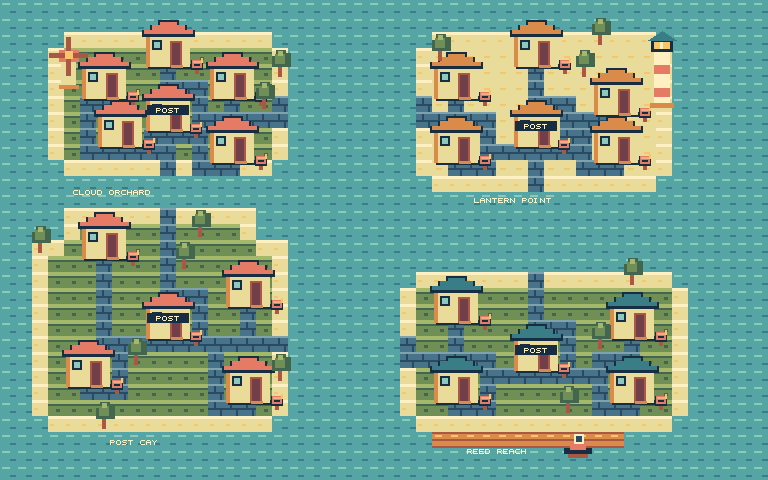
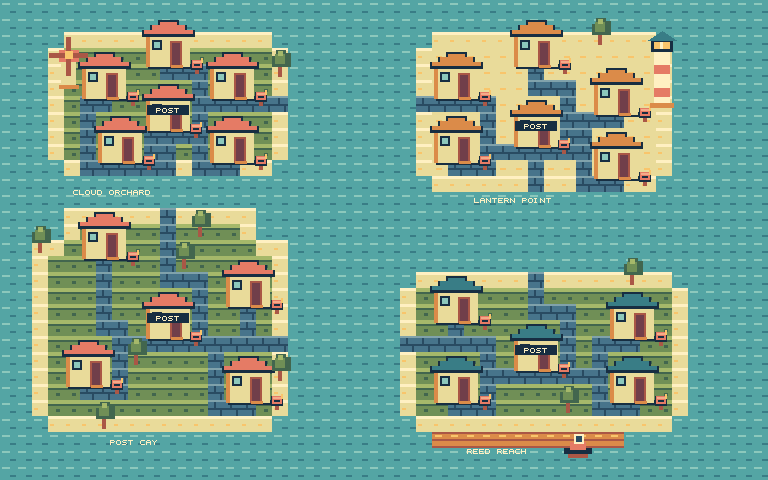
Build TIDEBYTE complete tide delivery adventure with four islands, mobile input and saved progression

diff --git a/tidebyte/world-data.js b/tidebyte/world-data.js
@@ -1,1 +1,1 @@
-globalThis.TIDE_WORLD={"width":48,"height":30,"tile":16,"zones":[[-1,-1,-1,-1,-1,-1,-1,-1,-1,-1,-1,-1,-1,-1,-1,-1,-1,-1,-1,-1,-1,-1,-1,-1,-1,-1,-1,-1,-1,-1,-1,-1,-1,-1,-1,-1,-1,-1,-1,-1,-1,-1,-1,-1,-1,-1,-1,-1],[-1,-1,-1,-1,-1,-1,-1,-1,-1,-1,-1,-1,-1,-1,-1,-1,-1,-1,-1,-1,-1,-1,-1,-1,-1,-1,-1,-1,-1,-1,-1,-1,-1,-1,-1,-1,-1,-1,-1,-1,-1,-1,-1,-1,-1,-1,-1,-1],[-1,-1,-1,-1,3,3,3,3,3,3,3,3,3,3,3,3,3,-1,-1,-1,-1,-1,-1,-1,-1,-1,-1,2,2,2,2,2,2,2,2,2,2,2,2,2,2,-1,-1,-1,-1,-1,-1,-1],[-1,-1,-1,3,3,3,3,3,3,3,3,3,3,3,3,3,3,3,-1,-1,-1,-1,-1,-1,-1,-1,2,2,2,2,2,2,2,2,2,2,2,2,2,2,2,2,-1,-1,-1,-1,-1,-1],[-1,-1,-1,3,3,3,3,3,3,3,3,3,3,3,3,3,3,3,-1,-1,-1,-1,-1,-1,-1,-1,2,2,2,2,2,2,2,2,2,2,2,2,2,2,2,2,-1,-1,-1,-1,-1,-1],[-1,-1,-1,3,3,3,3,3,3,3,3,3,3,3,3,3,3,3,-1,-1,-1,-1,-1,-1,-1,-1,2,2,2,2,2,2,2,2,2,2,2,2,2,2,2,2,-1,-1,-1,-1,-1,-1],[-1,-1,-1,3,3,3,3,3,3,3,3,3,3,3,3,3,3,3,-1,-1,-1,-1,-1,-1,-1,-1,2,2,2,2,2,2,2,2,2,2,2,2,2,2,2,2,-1,-1,-1,-1,-1,-1],[-1,-1,-1,3,3,3,3,3,3,3,3,3,3,3,3,3,3,3,-1,-1,-1,-1,-1,-1,-1,-1,2,2,2,2,2,2,2,2,2,2,2,2,2,2,2,2,-1,-1,-1,-1,-1,-1],[-1,-1,-1,3,3,3,3,3,3,3,3,3,3,3,3,3,3,3,-1,-1,-1,-1,-1,-1,-1,-1,2,2,2,2,2,2,2,2,2,2,2,2,2,2,2,2,-1,-1,-1,-1,-1,-1],[-1,-1,-1,3,3,3,3,3,3,3,3,3,3,3,3,3,3,3,-1,-1,-1,-1,-1,-1,-1,-1,2,2,2,2,2,2,2,2,2,2,2,2,2,2,2,2,-1,-1,-1,-1,-1,-1],[-1,-1,-1,-1,3,3,3,3,3,3,3,3,3,3,3,3,3,-1,-1,-1,-1,-1,-1,-1,-1,-1,2,2,2,2,2,2,2,2,2,2,2,2,2,2,2,2,-1,-1,-1,-1,-1,-1],[-1,-1,-1,-1,-1,-1,-1,-1,-1,-1,-1,-1,-1,-1,-1,-1,-1,-1,-1,-1,-1,-1,-1,-1,-1,-1,-1,2,2,2,2,2,2,2,2,2,2,2,2,2,2,-1,-1,-1,-1,-1,-1,-1],[-1,-1,-1,-1,-1,-1,-1,-1,-1,-1,-1,-1,-1,-1,-1,-1,-1,-1,-1,-1,-1,-1,-1,-1,-1,-1,-1,-1,-1,-1,-1,-1,-1,-1,-1,-1,-1,-1,-1,-1,-1,-1,-1,-1,-1,-1,-1,-1],[-1,-1,-1,-1,0,0,0,0,0,0,0,0,0,0,0,0,-1,-1,-1,-1,-1,-1,-1,-1,-1,-1,-1,-1,-1,-1,-1,-1,-1,-1,-1,-1,-1,-1,-1,-1,-1,-1,-1,-1,-1,-1,-1,-1],[-1,-1,-1,-1,0,0,0,0,0,0,0,0,0,0,0,0,-1,-1,-1,-1,-1,-1,-1,-1,-1,-1,-1,-1,-1,-1,-1,-1,-1,-1,-1,-1,-1,-1,-1,-1,-1,-1,-1,-1,-1,-1,-1,-1],[-1,-1,0,0,0,0,0,0,0,0,0,0,0,0,0,0,0,0,-1,-1,-1,-1,-1,-1,-1,-1,-1,-1,-1,-1,-1,-1,-1,-1,-1,-1,-1,-1,-1,-1,-1,-1,-1,-1,-1,-1,-1,-1],[-1,-1,0,0,0,0,0,0,0,0,0,0,0,0,0,0,0,0,-1,-1,-1,-1,-1,-1,-1,-1,-1,-1,-1,-1,-1,-1,-1,-1,-1,-1,-1,-1,-1,-1,-1,-1,-1,-1,-1,-1,-1,-1],[-1,-1,0,0,0,0,0,0,0,0,0,0,0,0,0,0,0,0,-1,-1,-1,-1,-1,-1,-1,-1,1,1,1,1,1,1,1,1,1,1,1,1,1,1,1,1,-1,-1,-1,-1,-1,-1],[-1,-1,0,0,0,0,0,0,0,0,0,0,0,0,0,0,0,0,-1,-1,-1,-1,-1,-1,-1,1,1,1,1,1,1,1,1,1,1,1,1,1,1,1,1,1,1,-1,-1,-1,-1,-1],[-1,-1,0,0,0,0,0,0,0,0,0,0,0,0,0,0,0,0,-1,-1,-1,-1,-1,-1,-1,1,1,1,1,1,1,1,1,1,1,1,1,1,1,1,1,1,1,-1,-1,-1,-1,-1],[-1,-1,0,0,0,0,0,0,0,0,0,0,0,0,0,0,0,0,-1,-1,-1,-1,-1,-1,-1,1,1,1,1,1,1,1,1,1,1,1,1,1,1,1,1,1,1,-1,-1,-1,-1,-1],[-1,-1,0,0,0,0,0,0,0,0,0,0,0,0,0,0,0,0,-1,-1,-1,-1,-1,-1,-1,1,1,1,1,1,1,1,1,1,1,1,1,1,1,1,1,1,1,-1,-1,-1,-1,-1],[-1,-1,0,0,0,0,0,0,0,0,0,0,0,0,0,0,0,0,-1,-1,-1,-1,-1,-1,-1,1,1,1,1,1,1,1,1,1,1,1,1,1,1,1,1,1,1,-1,-1,-1,-1,-1],[-1,-1,0,0,0,0,0,0,0,0,0,0,0,0,0,0,0,0,-1,-1,-1,-1,-1,-1,-1,1,1,1,1,1,1,1,1,1,1,1,1,1,1,1,1,1,1,-1,-1,-1,-1,-1],[-1,-1,0,0,0,0,0,0,0,0,0,0,0,0,0,0,0,0,-1,-1,-1,-1,-1,-1,-1,1,1,1,1,1,1,1,1,1,1,1,1,1,1,1,1,1,1,-1,-1,-1,-1,-1],[-1,-1,0,0,0,0,0,0,0,0,0,0,0,0,0,0,0,0,-1,-1,-1,-1,-1,-1,-1,1,1,1,1,1,1,1,1,1,1,1,1,1,1,1,1,1,1,-1,-1,-1,-1,-1],[-1,-1,-1,0,0,0,0,0,0,0,0,0,0,0,0,0,0,-1,-1,-1,-1,-1,-1,-1,-1,-1,1,1,1,1,1,1,1,1,1,1,1,1,1,1,1,1,-1,-1,-1,-1,-1,-1],[-1,-1,-1,-1,-1,-1,-1,-1,-1,-1,-1,-1,-1,-1,-1,-1,-1,-1,-1,-1,-1,-1,-1,-1,-1,-1,-1,-1,-1,-1,-1,-1,-1,-1,-1,-1,-1,-1,-1,-1,-1,-1,-1,-1,-1,-1,-1,-1],[-1,-1,-1,-1,-1,-1,-1,-1,-1,-1,-1,-1,-1,-1,-1,-1,-1,-1,-1,-1,-1,-1,-1,-1,-1,-1,-1,-1,-1,-1,-1,-1,-1,-1,-1,-1,-1,-1,-1,-1,-1,-1,-1,-1,-1,-1,-1,-1],[-1,-1,-1,-1,-1,-1,-1,-1,-1,-1,-1,-1,-1,-1,-1,-1,-1,-1,-1,-1,-1,-1,-1,-1,-1,-1,-1,-1,-1,-1,-1,-1,-1,-1,-1,-1,-1,-1,-1,-1,-1,-1,-1,-1,-1,-1,-1,-1]],"bars":[[9,11],[9,12],[10,11],[10,12],[18,6],[18,7],[18,21],[18,22],[19,6],[19,7],[19,21],[19,22],[20,6],[20,7],[20,21],[20,22],[21,6],[21,7],[21,21],[21,22],[22,6],[22,7],[22,21],[22,22],[23,6],[23,7],[23,21],[23,22],[24,6],[24,7],[24,21],[24,22],[25,6],[25,7],[32,12],[32,13],[32,14],[32,15],[32,16],[33,12],[33,13],[33,14],[33,15],[33,16]],"blocked":[[4,22],[4,23],[5,4],[5,5],[5,14],[5,15],[5,22],[5,23],[6,4],[6,5],[6,7],[6,8],[6,14],[6,15],[6,22],[6,23],[7,4],[7,5],[7,7],[7,8],[7,14],[7,15],[8,7],[8,8],[9,2],[9,3],[9,6],[9,7],[9,19],[9,20],[10,2],[10,3],[10,6],[10,7],[10,19],[10,20],[11,2],[11,3],[11,6],[11,7],[11,19],[11,20],[13,4],[13,5],[13,8],[13,9],[14,4],[14,5],[14,8],[14,9],[14,17],[14,18],[14,23],[14,24],[15,4],[15,5],[15,8],[15,9],[15,17],[15,18],[15,23],[15,24],[16,17],[16,18],[16,23],[16,24],[27,4],[27,5],[27,8],[27,9],[27,18],[27,19],[27,23],[27,24],[28,4],[28,5],[28,8],[28,9],[28,18],[28,19],[28,23],[28,24],[29,4],[29,5],[29,8],[29,9],[29,18],[29,19],[29,23],[29,24],[32,2],[32,3],[32,7],[32,8],[32,21],[32,22],[33,2],[33,3],[33,7],[33,8],[33,21],[33,22],[34,2],[34,3],[34,7],[34,8],[34,21],[34,22],[37,5],[37,6],[37,8],[37,9],[38,5],[38,6],[38,8],[38,9],[38,19],[38,20],[38,23],[38,24],[39,5],[39,6],[39,8],[39,9],[39,19],[39,20],[39,23],[39,24],[40,19],[40,20],[40,23],[40,24]],"depots":[[10,21],[33,23],[33,9],[10,8]],"addresses":[[[5,24],[15,19],[15,25],[6,16]],[[28,20],[39,21],[39,25],[28,25]],[[28,6],[38,7],[38,10],[33,4],[28,10]],[[6,6],[14,6],[7,9],[14,10],[10,4]]],"names":[["Bex","Uma","Finch","Old Moss"],["Mina","Kelp Twins","Otto","Jun"],["Aster","Luma","Pip","Keeper Sol","Nell"],["Pebble","Wren","Taro","Fenn","Grandma Rue"]],"regions":["Post Cay","Reed Reach","Lantern Point","Cloud Orchard"]};
+globalThis.TIDE_WORLD={"width":48,"height":30,"tile":16,"zones":[[-1,-1,-1,-1,-1,-1,-1,-1,-1,-1,-1,-1,-1,-1,-1,-1,-1,-1,-1,-1,-1,-1,-1,-1,-1,-1,-1,-1,-1,-1,-1,-1,-1,-1,-1,-1,-1,-1,-1,-1,-1,-1,-1,-1,-1,-1,-1,-1],[-1,-1,-1,-1,-1,-1,-1,-1,-1,-1,-1,-1,-1,-1,-1,-1,-1,-1,-1,-1,-1,-1,-1,-1,-1,-1,-1,-1,-1,-1,-1,-1,-1,-1,-1,-1,-1,-1,-1,-1,-1,-1,-1,-1,-1,-1,-1,-1],[-1,-1,-1,-1,3,3,3,3,3,3,3,3,3,3,3,3,3,-1,-1,-1,-1,-1,-1,-1,-1,-1,-1,2,2,2,2,2,2,2,2,2,2,2,2,2,2,-1,-1,-1,-1,-1,-1,-1],[-1,-1,-1,3,3,3,3,3,3,3,3,3,3,3,3,3,3,3,-1,-1,-1,-1,-1,-1,-1,-1,2,2,2,2,2,2,2,2,2,2,2,2,2,2,2,2,-1,-1,-1,-1,-1,-1],[-1,-1,-1,3,3,3,3,3,3,3,3,3,3,3,3,3,3,3,-1,-1,-1,-1,-1,-1,-1,-1,2,2,2,2,2,2,2,2,2,2,2,2,2,2,2,2,-1,-1,-1,-1,-1,-1],[-1,-1,-1,3,3,3,3,3,3,3,3,3,3,3,3,3,3,3,-1,-1,-1,-1,-1,-1,-1,-1,2,2,2,2,2,2,2,2,2,2,2,2,2,2,2,2,-1,-1,-1,-1,-1,-1],[-1,-1,-1,3,3,3,3,3,3,3,3,3,3,3,3,3,3,3,-1,-1,-1,-1,-1,-1,-1,-1,2,2,2,2,2,2,2,2,2,2,2,2,2,2,2,2,-1,-1,-1,-1,-1,-1],[-1,-1,-1,3,3,3,3,3,3,3,3,3,3,3,3,3,3,3,-1,-1,-1,-1,-1,-1,-1,-1,2,2,2,2,2,2,2,2,2,2,2,2,2,2,2,2,-1,-1,-1,-1,-1,-1],[-1,-1,-1,3,3,3,3,3,3,3,3,3,3,3,3,3,3,3,-1,-1,-1,-1,-1,-1,-1,-1,2,2,2,2,2,2,2,2,2,2,2,2,2,2,2,2,-1,-1,-1,-1,-1,-1],[-1,-1,-1,3,3,3,3,3,3,3,3,3,3,3,3,3,3,3,-1,-1,-1,-1,-1,-1,-1,-1,2,2,2,2,2,2,2,2,2,2,2,2,2,2,2,2,-1,-1,-1,-1,-1,-1],[-1,-1,-1,-1,3,3,3,3,3,3,3,3,3,3,3,3,3,-1,-1,-1,-1,-1,-1,-1,-1,-1,2,2,2,2,2,2,2,2,2,2,2,2,2,2,2,2,-1,-1,-1,-1,-1,-1],[-1,-1,-1,-1,-1,-1,-1,-1,-1,-1,-1,-1,-1,-1,-1,-1,-1,-1,-1,-1,-1,-1,-1,-1,-1,-1,-1,2,2,2,2,2,2,2,2,2,2,2,2,2,2,-1,-1,-1,-1,-1,-1,-1],[-1,-1,-1,-1,-1,-1,-1,-1,-1,-1,-1,-1,-1,-1,-1,-1,-1,-1,-1,-1,-1,-1,-1,-1,-1,-1,-1,-1,-1,-1,-1,-1,-1,-1,-1,-1,-1,-1,-1,-1,-1,-1,-1,-1,-1,-1,-1,-1],[-1,-1,-1,-1,0,0,0,0,0,0,0,0,0,0,0,0,-1,-1,-1,-1,-1,-1,-1,-1,-1,-1,-1,-1,-1,-1,-1,-1,-1,-1,-1,-1,-1,-1,-1,-1,-1,-1,-1,-1,-1,-1,-1,-1],[-1,-1,-1,-1,0,0,0,0,0,0,0,0,0,0,0,0,-1,-1,-1,-1,-1,-1,-1,-1,-1,-1,-1,-1,-1,-1,-1,-1,-1,-1,-1,-1,-1,-1,-1,-1,-1,-1,-1,-1,-1,-1,-1,-1],[-1,-1,0,0,0,0,0,0,0,0,0,0,0,0,0,0,0,0,-1,-1,-1,-1,-1,-1,-1,-1,-1,-1,-1,-1,-1,-1,-1,-1,-1,-1,-1,-1,-1,-1,-1,-1,-1,-1,-1,-1,-1,-1],[-1,-1,0,0,0,0,0,0,0,0,0,0,0,0,0,0,0,0,-1,-1,-1,-1,-1,-1,-1,-1,-1,-1,-1,-1,-1,-1,-1,-1,-1,-1,-1,-1,-1,-1,-1,-1,-1,-1,-1,-1,-1,-1],[-1,-1,0,0,0,0,0,0,0,0,0,0,0,0,0,0,0,0,-1,-1,-1,-1,-1,-1,-1,-1,1,1,1,1,1,1,1,1,1,1,1,1,1,1,1,1,-1,-1,-1,-1,-1,-1],[-1,-1,0,0,0,0,0,0,0,0,0,0,0,0,0,0,0,0,-1,-1,-1,-1,-1,-1,-1,1,1,1,1,1,1,1,1,1,1,1,1,1,1,1,1,1,1,-1,-1,-1,-1,-1],[-1,-1,0,0,0,0,0,0,0,0,0,0,0,0,0,0,0,0,-1,-1,-1,-1,-1,-1,-1,1,1,1,1,1,1,1,1,1,1,1,1,1,1,1,1,1,1,-1,-1,-1,-1,-1],[-1,-1,0,0,0,0,0,0,0,0,0,0,0,0,0,0,0,0,-1,-1,-1,-1,-1,-1,-1,1,1,1,1,1,1,1,1,1,1,1,1,1,1,1,1,1,1,-1,-1,-1,-1,-1],[-1,-1,0,0,0,0,0,0,0,0,0,0,0,0,0,0,0,0,-1,-1,-1,-1,-1,-1,-1,1,1,1,1,1,1,1,1,1,1,1,1,1,1,1,1,1,1,-1,-1,-1,-1,-1],[-1,-1,0,0,0,0,0,0,0,0,0,0,0,0,0,0,0,0,-1,-1,-1,-1,-1,-1,-1,1,1,1,1,1,1,1,1,1,1,1,1,1,1,1,1,1,1,-1,-1,-1,-1,-1],[-1,-1,0,0,0,0,0,0,0,0,0,0,0,0,0,0,0,0,-1,-1,-1,-1,-1,-1,-1,1,1,1,1,1,1,1,1,1,1,1,1,1,1,1,1,1,1,-1,-1,-1,-1,-1],[-1,-1,0,0,0,0,0,0,0,0,0,0,0,0,0,0,0,0,-1,-1,-1,-1,-1,-1,-1,1,1,1,1,1,1,1,1,1,1,1,1,1,1,1,1,1,1,-1,-1,-1,-1,-1],[-1,-1,0,0,0,0,0,0,0,0,0,0,0,0,0,0,0,0,-1,-1,-1,-1,-1,-1,-1,1,1,1,1,1,1,1,1,1,1,1,1,1,1,1,1,1,1,-1,-1,-1,-1,-1],[-1,-1,-1,0,0,0,0,0,0,0,0,0,0,0,0,0,0,-1,-1,-1,-1,-1,-1,-1,-1,-1,1,1,1,1,1,1,1,1,1,1,1,1,1,1,1,1,-1,-1,-1,-1,-1,-1],[-1,-1,-1,-1,-1,-1,-1,-1,-1,-1,-1,-1,-1,-1,-1,-1,-1,-1,-1,-1,-1,-1,-1,-1,-1,-1,-1,-1,-1,-1,-1,-1,-1,-1,-1,-1,-1,-1,-1,-1,-1,-1,-1,-1,-1,-1,-1,-1],[-1,-1,-1,-1,-1,-1,-1,-1,-1,-1,-1,-1,-1,-1,-1,-1,-1,-1,-1,-1,-1,-1,-1,-1,-1,-1,-1,-1,-1,-1,-1,-1,-1,-1,-1,-1,-1,-1,-1,-1,-1,-1,-1,-1,-1,-1,-1,-1],[-1,-1,-1,-1,-1,-1,-1,-1,-1,-1,-1,-1,-1,-1,-1,-1,-1,-1,-1,-1,-1,-1,-1,-1,-1,-1,-1,-1,-1,-1,-1,-1,-1,-1,-1,-1,-1,-1,-1,-1,-1,-1,-1,-1,-1,-1,-1,-1]],"bars":[[9,11],[9,12],[10,11],[10,12],[18,6],[18,7],[18,21],[18,22],[19,6],[19,7],[19,21],[19,22],[20,6],[20,7],[20,21],[20,22],[21,6],[21,7],[21,21],[21,22],[22,6],[22,7],[22,21],[22,22],[23,6],[23,7],[23,21],[23,22],[24,6],[24,7],[24,21],[24,22],[25,6],[25,7],[32,12],[32,13],[32,14],[32,15],[32,16],[33,12],[33,13],[33,14],[33,15],[33,16]],"blocked":[[2,15],[3,2],[3,3],[3,4],[4,2],[4,3],[4,4],[4,5],[4,21],[4,22],[4,23],[5,3],[5,4],[5,5],[5,13],[5,14],[5,15],[5,21],[5,22],[5,23],[6,3],[6,4],[6,5],[6,7],[6,8],[6,9],[6,13],[6,14],[6,15],[6,21],[6,22],[6,23],[6,26],[7,3],[7,4],[7,5],[7,7],[7,8],[7,9],[7,13],[7,14],[7,15],[8,7],[8,8],[8,9],[8,22],[9,1],[9,2],[9,3],[9,5],[9,6],[9,7],[9,18],[9,19],[9,20],[10,1],[10,2],[10,3],[10,5],[10,6],[10,7],[10,18],[10,19],[10,20],[11,1],[11,2],[11,3],[11,5],[11,6],[11,7],[11,16],[11,18],[11,19],[11,20],[12,14],[13,3],[13,4],[13,5],[13,7],[13,8],[13,9],[14,3],[14,4],[14,5],[14,7],[14,8],[14,9],[14,16],[14,17],[14,18],[14,22],[14,23],[14,24],[15,3],[15,4],[15,5],[15,7],[15,8],[15,9],[15,16],[15,17],[15,18],[15,22],[15,23],[15,24],[16,16],[16,17],[16,18],[16,22],[16,23],[16,24],[17,4],[17,23],[27,3],[27,4],[27,5],[27,7],[27,8],[27,9],[27,17],[27,18],[27,19],[27,22],[27,23],[27,24],[28,3],[28,4],[28,5],[28,7],[28,8],[28,9],[28,17],[28,18],[28,19],[28,22],[28,23],[28,24],[29,3],[29,4],[29,5],[29,7],[29,8],[29,9],[29,17],[29,18],[29,19],[29,22],[29,23],[29,24],[32,1],[32,2],[32,3],[32,6],[32,7],[32,8],[32,20],[32,21],[32,22],[33,1],[33,2],[33,3],[33,6],[33,7],[33,8],[33,20],[33,21],[33,22],[34,1],[34,2],[34,3],[34,6],[34,7],[34,8],[34,20],[34,21],[34,22],[35,25],[37,2],[37,4],[37,5],[37,6],[37,8],[37,9],[37,10],[38,4],[38,5],[38,6],[38,8],[38,9],[38,10],[38,18],[38,19],[38,20],[38,22],[38,23],[38,24],[39,4],[39,5],[39,6],[39,8],[39,9],[39,10],[39,17],[39,18],[39,19],[39,20],[39,22],[39,23],[39,24],[40,2],[40,3],[40,4],[40,5],[40,6],[40,18],[40,19],[40,20],[40,22],[40,23],[40,24],[41,2],[41,3],[41,4],[41,5],[41,6]],"depots":[[10,21],[33,23],[33,9],[10,8]],"addresses":[[[5,24],[15,19],[15,25],[6,16]],[[28,20],[39,21],[39,25],[28,25]],[[28,6],[38,7],[38,11],[33,4],[28,10]],[[6,6],[14,6],[7,10],[14,10],[10,4]]],"names":[["Bex","Uma","Finch","Old Moss"],["Mina","Kelp Twins","Otto","Jun"],["Aster","Luma","Pip","Keeper Sol","Nell"],["Pebble","Wren","Taro","Fenn","Grandma Rue"]],"regions":["Post Cay","Reed Reach","Lantern Point","Cloud Orchard"]};

diff --git a/tidebyte/build_game_art.py b/tidebyte/build_game_art.py
@@ -10,7 +10,7 @@ for region,(x0,y0,x1,y1) in enumerate([(2,13,17,26),(25,17,42,26),(26,2,41,11),(
    zones[y][x]=region
 bars={(x,y) for x in range(18,25) for y in [21,22]}|{(x,y) for x in [32,33] for y in range(12,17)}|{(x,y) for x in [9,10] for y in range(11,13)}|{(x,y) for x in range(18,26) for y in [6,7]}
 depots=[(10,21),(33,23),(33,9),(10,8)]
-addresses=[[(5,24),(15,19),(15,25),(6,16)],[(28,20),(39,21),(39,25),(28,25)],[(28,6),(38,7),(38,10),(33,4),(28,10)],[(6,6),(14,6),(7,9),(14,10),(10,4)]]
+addresses=[[(5,24),(15,19),(15,25),(6,16)],[(28,20),(39,21),(39,25),(28,25)],[(28,6),(38,7),(38,11),(33,4),(28,10)],[(6,6),(14,6),(7,10),(14,10),(10,4)]]
 names=[['Bex','Uma','Finch','Old Moss'],['Mina','Kelp Twins','Otto','Jun'],['Aster','Luma','Pip','Keeper Sol','Nell'],['Pebble','Wren','Taro','Fenn','Grandma Rue']]
 blocked=set();buildings=[]
 for region,points in enumerate([[depots[i]]+addresses[i] for i in range(4)]):
@@ -19,7 +19,7 @@ for region,points in enumerate([[depots[i]]+addresses[i] for i in range(4)]):
   buildings.append((region,i,xx,yy,48,47))
   for cy in range(H):
    for cx in range(W):
-    if xx+1<=cx*16+8<xx+48 and yy+14<=cy*16+8<yy+48:blocked.add((cx,cy))
+    if xx-1<=cx*16+8<xx+49 and yy+1<=cy*16+8<yy+48:blocked.add((cx,cy))
 def path(start,end):
  q=deque([start]);prev={start:None}
  while q:
@@ -58,11 +58,14 @@ for region in range(4):
   for x in range(2,W-2):
    if zones[y][x]==region and (x*7+y*13)%19==0 and (x,y) not in roads and all((x+dx,y+dy) not in blocked for dx,dy in [(0,0),(0,-1),(1,0)]):
     tree(im,x*16,y*16-16)
+    blocked.add((x,y))
 # Landmark silhouettes: lighthouse, reed ferry, orchard mill. All integer pixels.
 x,y=650,40
 rect(im,x+4,y+8,16,55,5);rect(im,x+4,y+25,16,9,10);rect(im,x+4,y+48,16,9,10);rect(im,x,y+63,24,5,7);rect(im,x+1,y,22,12,0);rect(im,x+4,y+2,16,7,6);rect(im,x+10,y+2,3,7,5);poly(im,[(x-2,y),(x+12,y-9),(x+26,y)],12)
+blocked.update({(xx,yy) for xx in [40,41] for yy in range(2,7)})
 x,y=52,36
 rect(im,x+9,y+21,15,30,18);rect(im,x+7,y+49,20,4,7);rect(im,x+7,y+14,20,12,10);rect(im,x+14,y+1,5,39,8);rect(im,x-3,y+17,39,5,8);rect(im,x+13,y+15,8,8,6)
+blocked.update({(xx,yy) for xx in [3,4] for yy in range(2,5)}|{(4,5)})
 for xx in range(443,628,16):im.alpha_composite(T[4],(xx//16*16,432))
 im.alpha_composite(zoom(PROPS[6],2),(562,430));text(im,'REED REACH',467,449,5);text(im,'POST CAY',110,440,5);text(im,'LANTERN POINT',474,198,5);text(im,'CLOUD ORCHARD',73,190,5)
 save(im,'world.png')

diff --git a/tidebyte/VALIDATION.md b/tidebyte/VALIDATION.md
@@ -4,7 +4,7 @@
 
 Nine art suites pass: all authored PNGs use the approved 20-colour palette with binary transparency; the original near view is an exact crop; presentation exports are integer nearest-neighbour enlargements; character/prop/tile/effect atlases retain documented cells; original and game art manifests match; dusk samples are indexed remaps; the walk GIF retains four frames; local HTML resources exist; world-data.js exactly matches world.json; the game renderer palette matches the original kit.
 
-Nine gameplay suites complete all 18 story deliveries and 60 repeat deliveries. They check gates, actual route walking, wet/dry sandbar passability, boat access, collision-free destinations, low/high tide reachability, safe return to shore, upgrades/cost caps, repeat rounds, two-parcel batching, collections, claims, boost cooldown, malformed saves and receipt reloads without duplicate coins. Additional movement samples prove boots/sail/boost change distance, seal upgrades change a postmark result and Finder Bell changes collection range. Runtime scripts pass JavaScript syntax checks.
+Ten gameplay suites complete all 18 story deliveries and 60 repeat deliveries. They check gates, actual route walking, wet/dry sandbar passability, boat access, collision-free destinations, roof/tree/lighthouse/mill solids, low/high tide reachability, safe return to shore, upgrades/cost caps, repeat rounds, two-parcel batching, collections, claims, boost cooldown, malformed saves and receipt reloads without duplicate coins. Additional movement samples prove boots/sail/boost change distance, seal upgrades change a postmark result and Finder Bell changes collection range. Runtime scripts pass JavaScript syntax checks.
 
 ## Actual browser input
 
